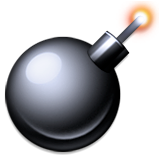
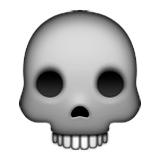
trying to make mobile touch work

diff --git a/emojisnake.js b/emojisnake.js
@@ -3,9 +3,6 @@ var snakeSection = new Array(); //array of sprites that make the snake body sect
 var snakePath = new Array(); //arrary of positions(points) that have to be stored for the path the sections follow
 var numSnakeSections = 5; //number of snake body sections
 var snakeSpacer = 5; //parameter that sets the spacing between sections
-var food;
-var bademoji;
-var goodemoji;
 
 var blip; //sounds
 var poohit; //sounds
@@ -28,22 +25,22 @@ var game = new Phaser.Game (
 
 // RETURNS RANDOM KILL
 function randoBad() {
-  var randomNumber = rand(3.99);
-  if (randomNumber <= 1) {
-    return 'poop'
-  } else if (randomNumber <= 2) {
+  var randomNumber = rand(100);
+  if (randomNumber < 33) {
+    return 'skull'
+  } else if (randomNumber > 66) {
     return 'bomb'
   } else {
-    return 'fire'
+    return 'poop'
   }
 }
 
 // RETURNS RANDOM FOOD
 function randoGood() {
-  var randomNumber = rand(3.99);
-  if (randomNumber <= 1) {
+  var randomNumber = rand(100);
+  if (randomNumber < 33) {
     return 'watermelon'
-  } else if (randomNumber <= 2) {
+  } else if (randomNumber > 66) {
     return 'pineapple'
   } else {
     return 'peach'
@@ -114,16 +111,13 @@ function preload() {
 
   // LOAD Bad Emojis
   game.load.image('bomb','public/assets/emojis/kills/521.png');
-  game.load.image('fire','public/assets/emojis/kills/647.png');
+  game.load.image('skull','public/assets/emojis/kills/647.png');
   game.load.image('poop','public/assets/emojis/kills/527.png');
 
   // LOAD Good Emojis
   game.load.image('watermelon','public/assets/emojis/foods/229.png');
   game.load.image('pineapple','public/assets/emojis/foods/233.png');
   game.load.image('peach','public/assets/emojis/foods/237.png');
-
-  // LOAD Smiley Snake Logo
-  game.load.image('logo','public/assets/smileysnakelogo.svg');
 
   // load audio files
   game.load.audio('blip', 'public/assets/audiofiles/Blip.wav');
@@ -281,6 +275,11 @@ function update() {
       //  Move CLOCKWISE
       snakeHead.body.angularVelocity = 400;
     }
+  }
+
+  // ALLOWS TWO FINGER TOUCH PAUSE
+  if (game.input.pointer2.isDown){
+    myPause();
   }
 
   //WRORLD WRAP
